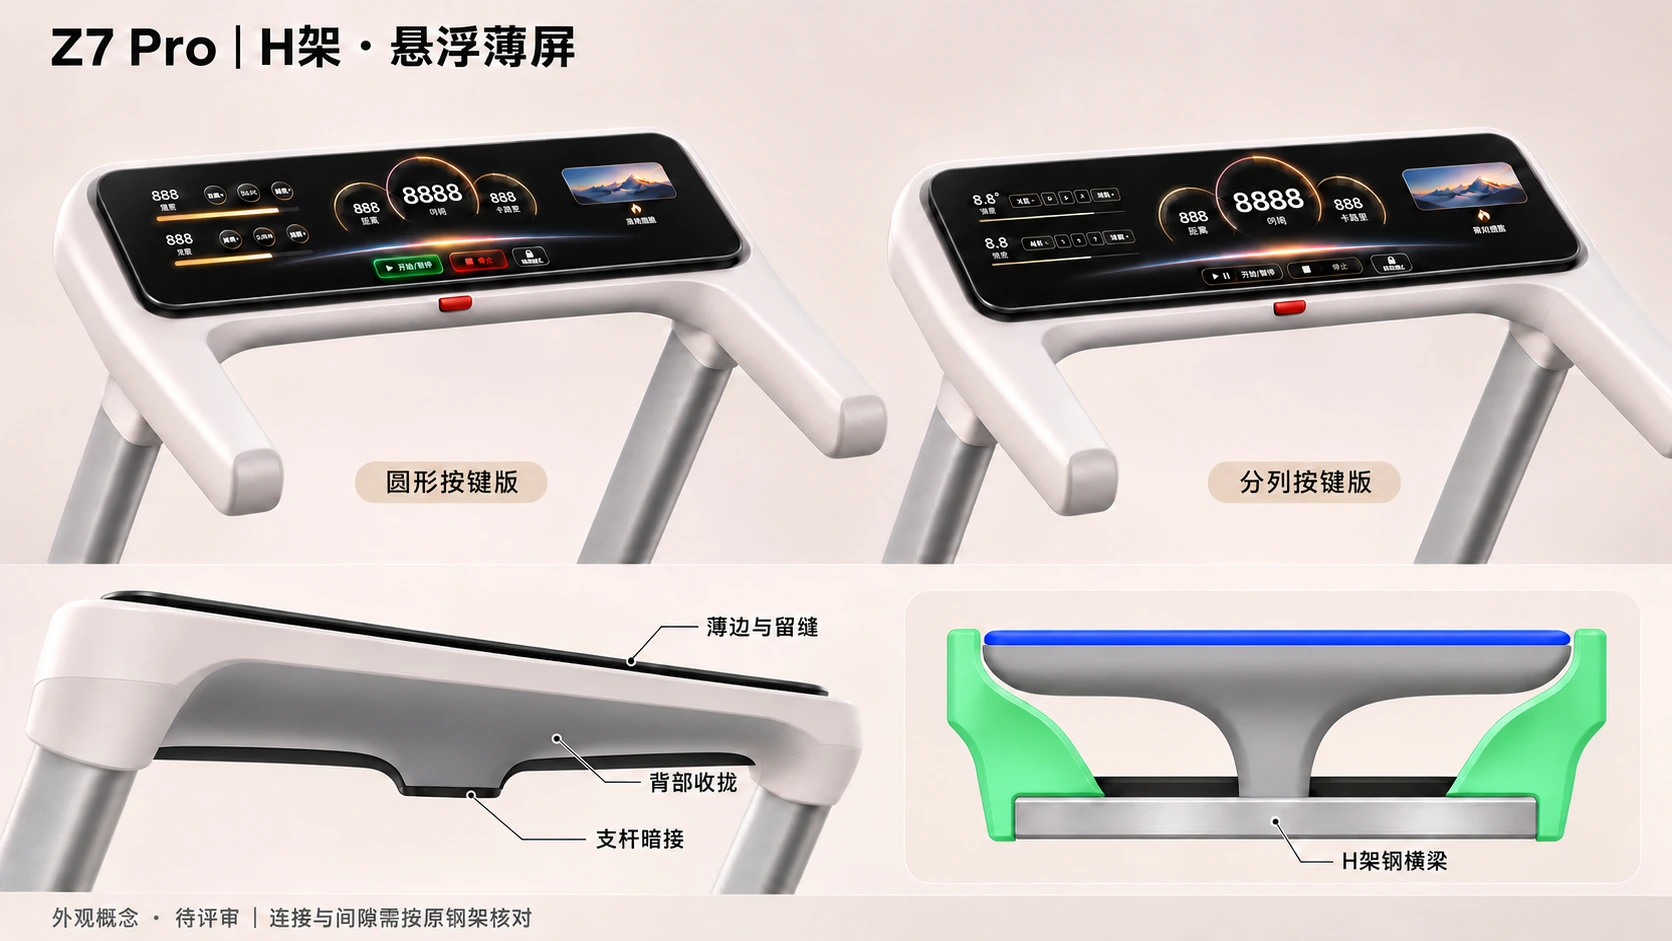
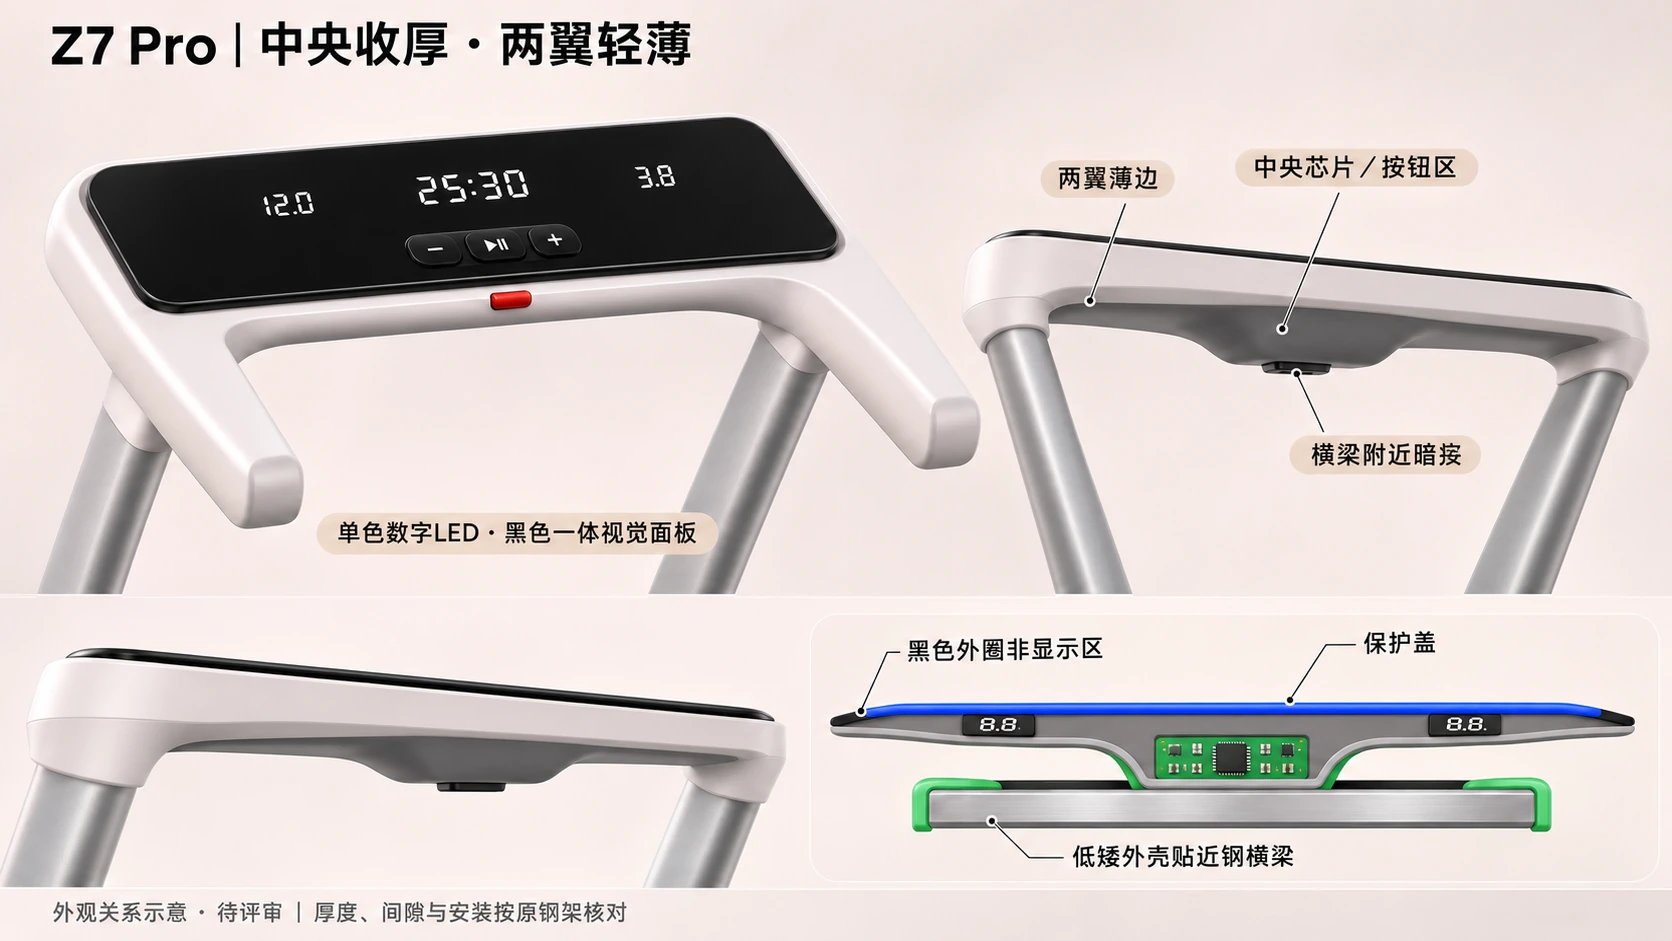
Correct Z7 Pro console to compact H-frame shell and monochrome segment display

diff --git a/iterations/z7pro-floating-console-20261121/index.html b/iterations/z7pro-floating-console-20261121/index.html
@@ -2,21 +2,20 @@
 <html lang="zh-CN">
 <meta charset="utf-8">
 <meta name="viewport" content="width=device-width,initial-scale=1">
-<title>Z7 Pro · H架悬浮薄屏表头概念</title>
+<title>Z7 Pro · 中央收厚、两翼轻薄</title>
 <style>
-*{box-sizing:border-box}body{margin:0;background:#f4f1ed;color:#292826;font:16px/1.6 system-ui,-apple-system,sans-serif}main{max-width:1640px;margin:auto;padding:28px 24px 54px}h1{font-size:clamp(22px,3vw,34px);line-height:1.3;margin:0 0 10px}p{max-width:920px;color:#615c57;margin:8px 0 20px}.status{display:inline-block;font-size:13px;padding:5px 12px;border-radius:20px;background:#e9ded0;color:#554b41;margin-bottom:18px}img{display:block;width:100%;height:auto}a{color:inherit}.hero{display:block;border-radius:14px;overflow:hidden;background:#fff}.screens{display:grid;grid-template-columns:1fr 1fr;gap:20px;margin-top:24px}figure{margin:0;background:#fff;padding:14px;border-radius:12px}figcaption{margin:9px 0 0;color:#615c57;font-size:14px}h2{font-size:20px;margin-top:32px}.note{font-size:14px}.source{text-decoration:none}@media(max-width:680px){main{padding:20px 12px 32px}.screens{grid-template-columns:1fr;gap:14px}}
+*{box-sizing:border-box}body{margin:0;background:#f4f1ed;color:#292826;font:16px/1.6 system-ui,-apple-system,sans-serif}main{max-width:1640px;margin:auto;padding:28px 24px 54px}h1{font-size:clamp(22px,3vw,34px);line-height:1.3;margin:0 0 10px}p{max-width:1020px;color:#615c57;margin:8px 0 20px}.status{display:inline-block;font-size:13px;padding:5px 12px;border-radius:20px;background:#e9ded0;color:#554b41;margin-bottom:18px}img{display:block;width:100%;height:auto}a{color:inherit}.hero{display:block;border-radius:14px;overflow:hidden;background:#fff}.points{display:grid;grid-template-columns:repeat(3,1fr);gap:16px;margin:24px 0}.points div{background:#fff;padding:18px;border-radius:12px}.points strong{display:block;margin-bottom:6px}.points span,.note{font-size:14px;color:#615c57}@media(max-width:680px){main{padding:20px 12px 32px}.points{grid-template-columns:1fr;gap:10px}}
 </style>
 <main>
-<h1>Z7 Pro｜H架 · 悬浮薄屏</h1>
-<div class="status">外观概念 · 已生成，待用户评审</div>
-<p>保留现款横向表头、两侧长扶手与H型钢架关系；薄屏周边分离，背部向中央收拢，在支杆下部隐蔽连接。点击图稿查看大图。</p>
-<a class="hero" href="concept.webp" target="_blank" rel="noopener"><img src="concept.webp" width="1672" height="941" alt="Z7 Pro H形表头悬浮薄屏概念：两版屏幕、背部收拢与隐藏连接细节、配色剖面"></a>
-<p class="note">本图为AI外观概念，未修改原CAD。剖面表达连接关系；钢横梁占位、真实间隙、安装与折叠需按原装配核对。屏幕小字和按键细节以下方原稿为准。</p>
-<h2>两张屏幕原稿 · 完整原比例保留</h2>
-<div class="screens">
-<figure><a href="screen-01-original.png" target="_blank" rel="noopener"><img src="screen-01-original.png" width="1280" height="319" alt="用户屏幕原稿：圆形按键版"></a><figcaption>圆形按键版 · 1280 × 319</figcaption></figure>
-<figure><a href="screen-02-original.png" target="_blank" rel="noopener"><img src="screen-02-original.png" width="2508" height="627" alt="用户屏幕原稿：分列按键版"></a><figcaption>分列按键版 · 2508 × 627</figcaption></figure>
+<h1>Z7 Pro｜中央收厚 · 两翼轻薄</h1>
+<div class="status">用户澄清后的外观关系修正版 · 待评审</div>
+<p>沿用现款H架关系：中央容纳芯片与按钮，两翼以薄的单色数字显示部分展开；外围壳靠近钢横梁，在中央下部隐蔽连接。</p>
+<a class="hero" href="concept.webp?v=mono-20261121" target="_blank" rel="noopener"><img src="concept.webp?v=mono-20261121" width="1672" height="941" alt="Z7 Pro修正版：中央芯片按钮局部收厚、两翼轻薄、局部单色段码数字，低矮外围壳靠近H钢横梁"></a>
+<div class="points">
+<div><strong>中央厚 · 两翼薄</strong><span>芯片与按钮集中在中央，背部仅在此局部收厚；两翼保持轻薄，避免整幅厚背壳。</span></div>
+<div><strong>黑色面板 · 局部显示</strong><span>黑色外圈属于视觉面板，并非真实显示区。这里只表现单色LED段码数字，不采用全彩仪表界面。</span></div>
+<div><strong>外围壳靠近钢横梁</strong><span>原解构图的绿色外壳为夸张表达。本稿降低外围壳体量，让连接退到横梁附近，保留H架关系。</span></div>
 </div>
-<p class="note">两版并列保留，尚未二选一。本次为Z7 Pro原H架上的表头外观探索，未将其标记为凌序已选方案。</p>
+<p class="note">本图为AI外观关系示意，未修改CAD；图中电路板仅说明中央电子件容纳区域。实际厚度、盖板材料、结构间隙、安装、承载及折叠仍需按原装配核对。旧图的高大外围壳与全彩界面已退出本页当前评审。</p>
 </main>
 </html>
